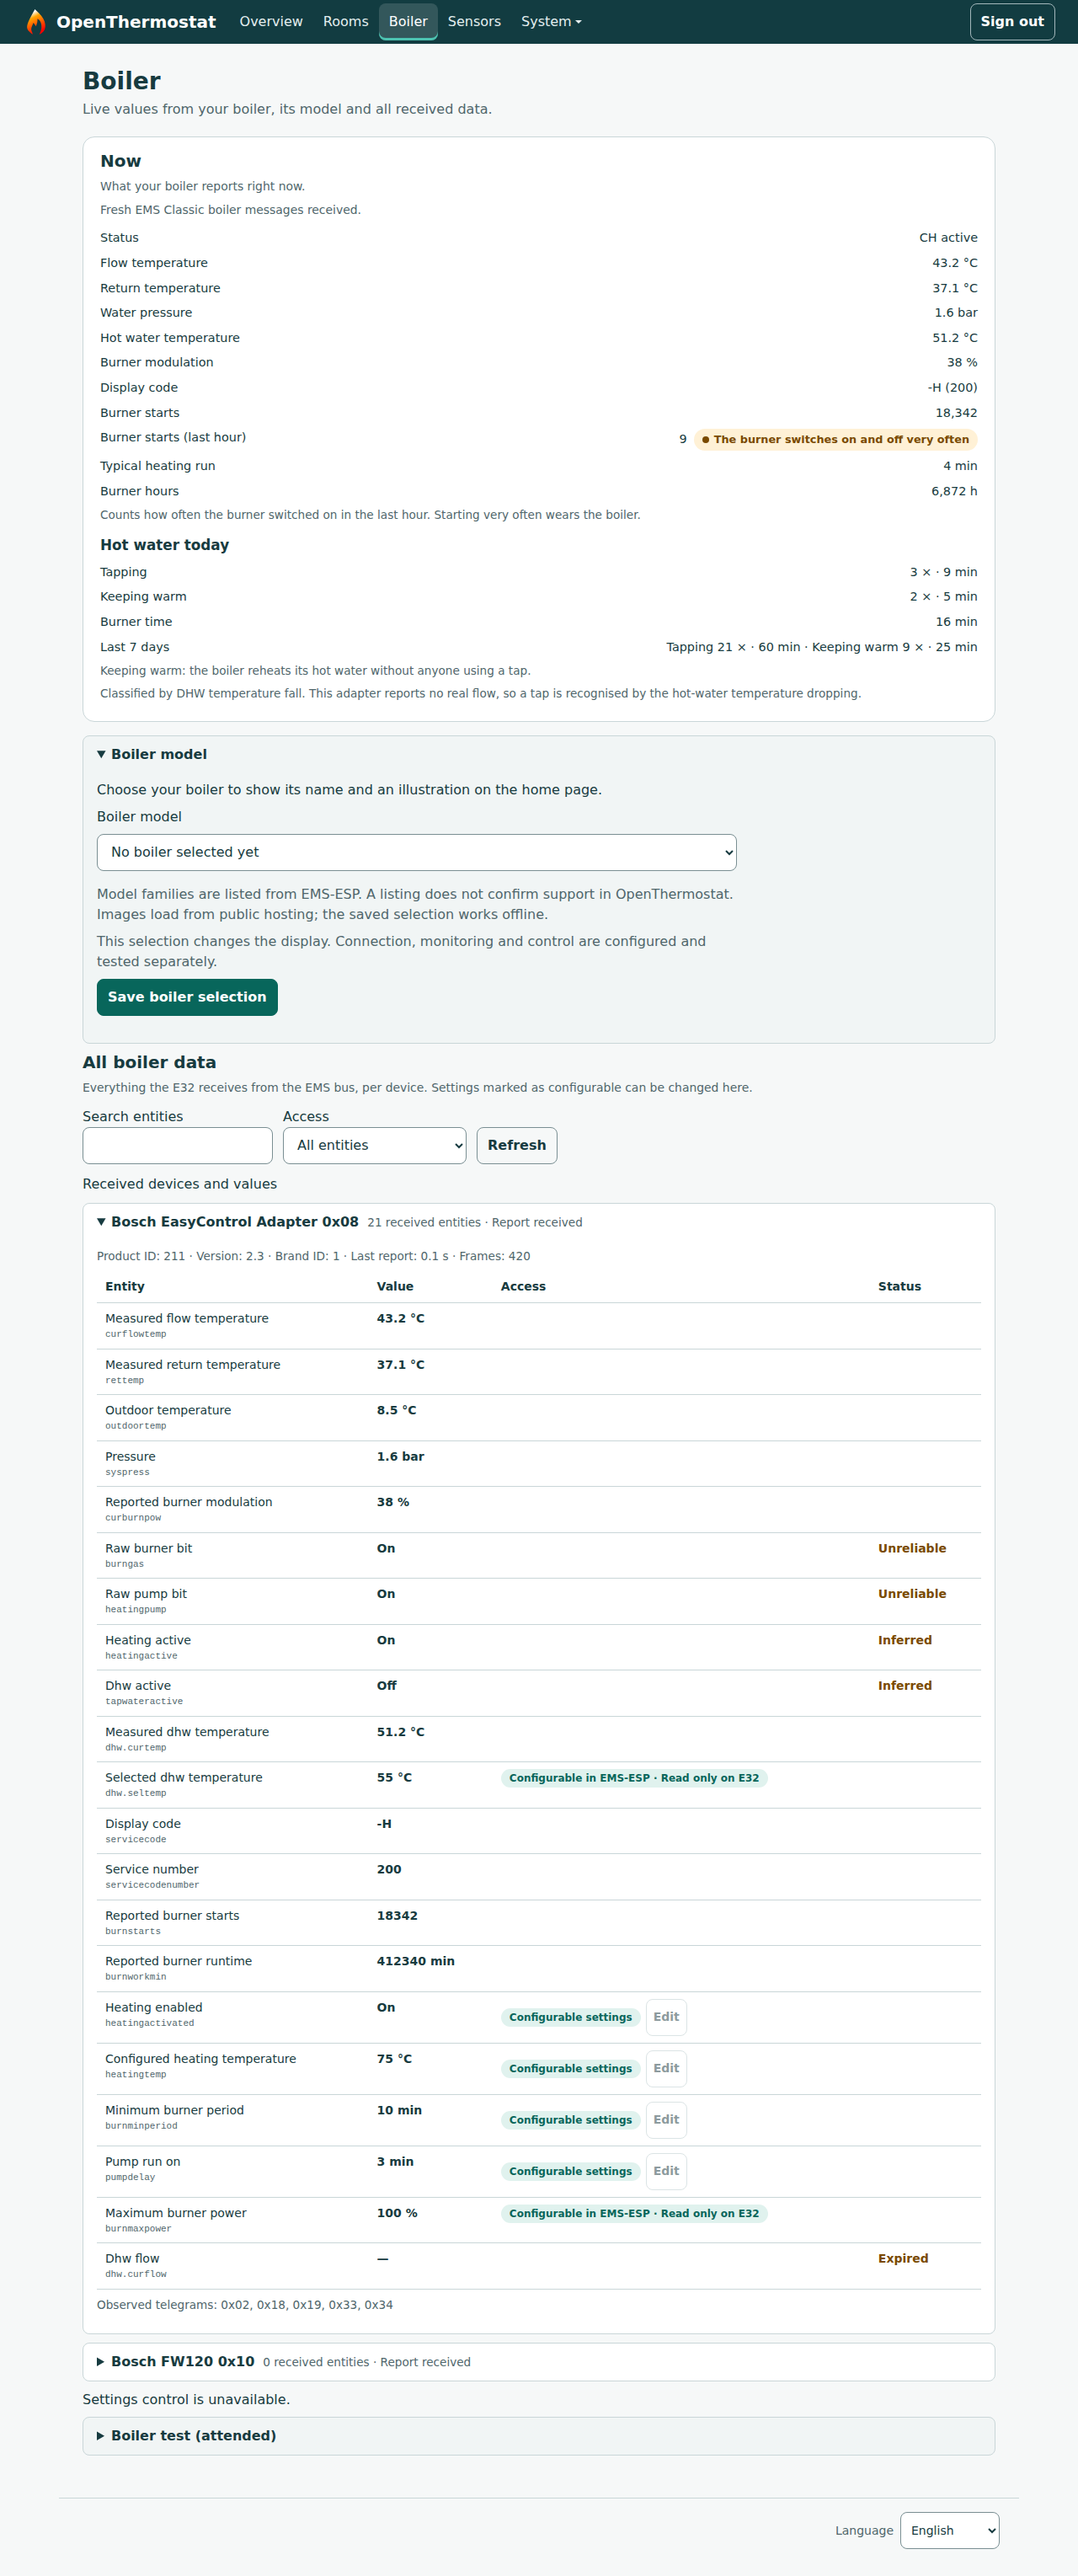
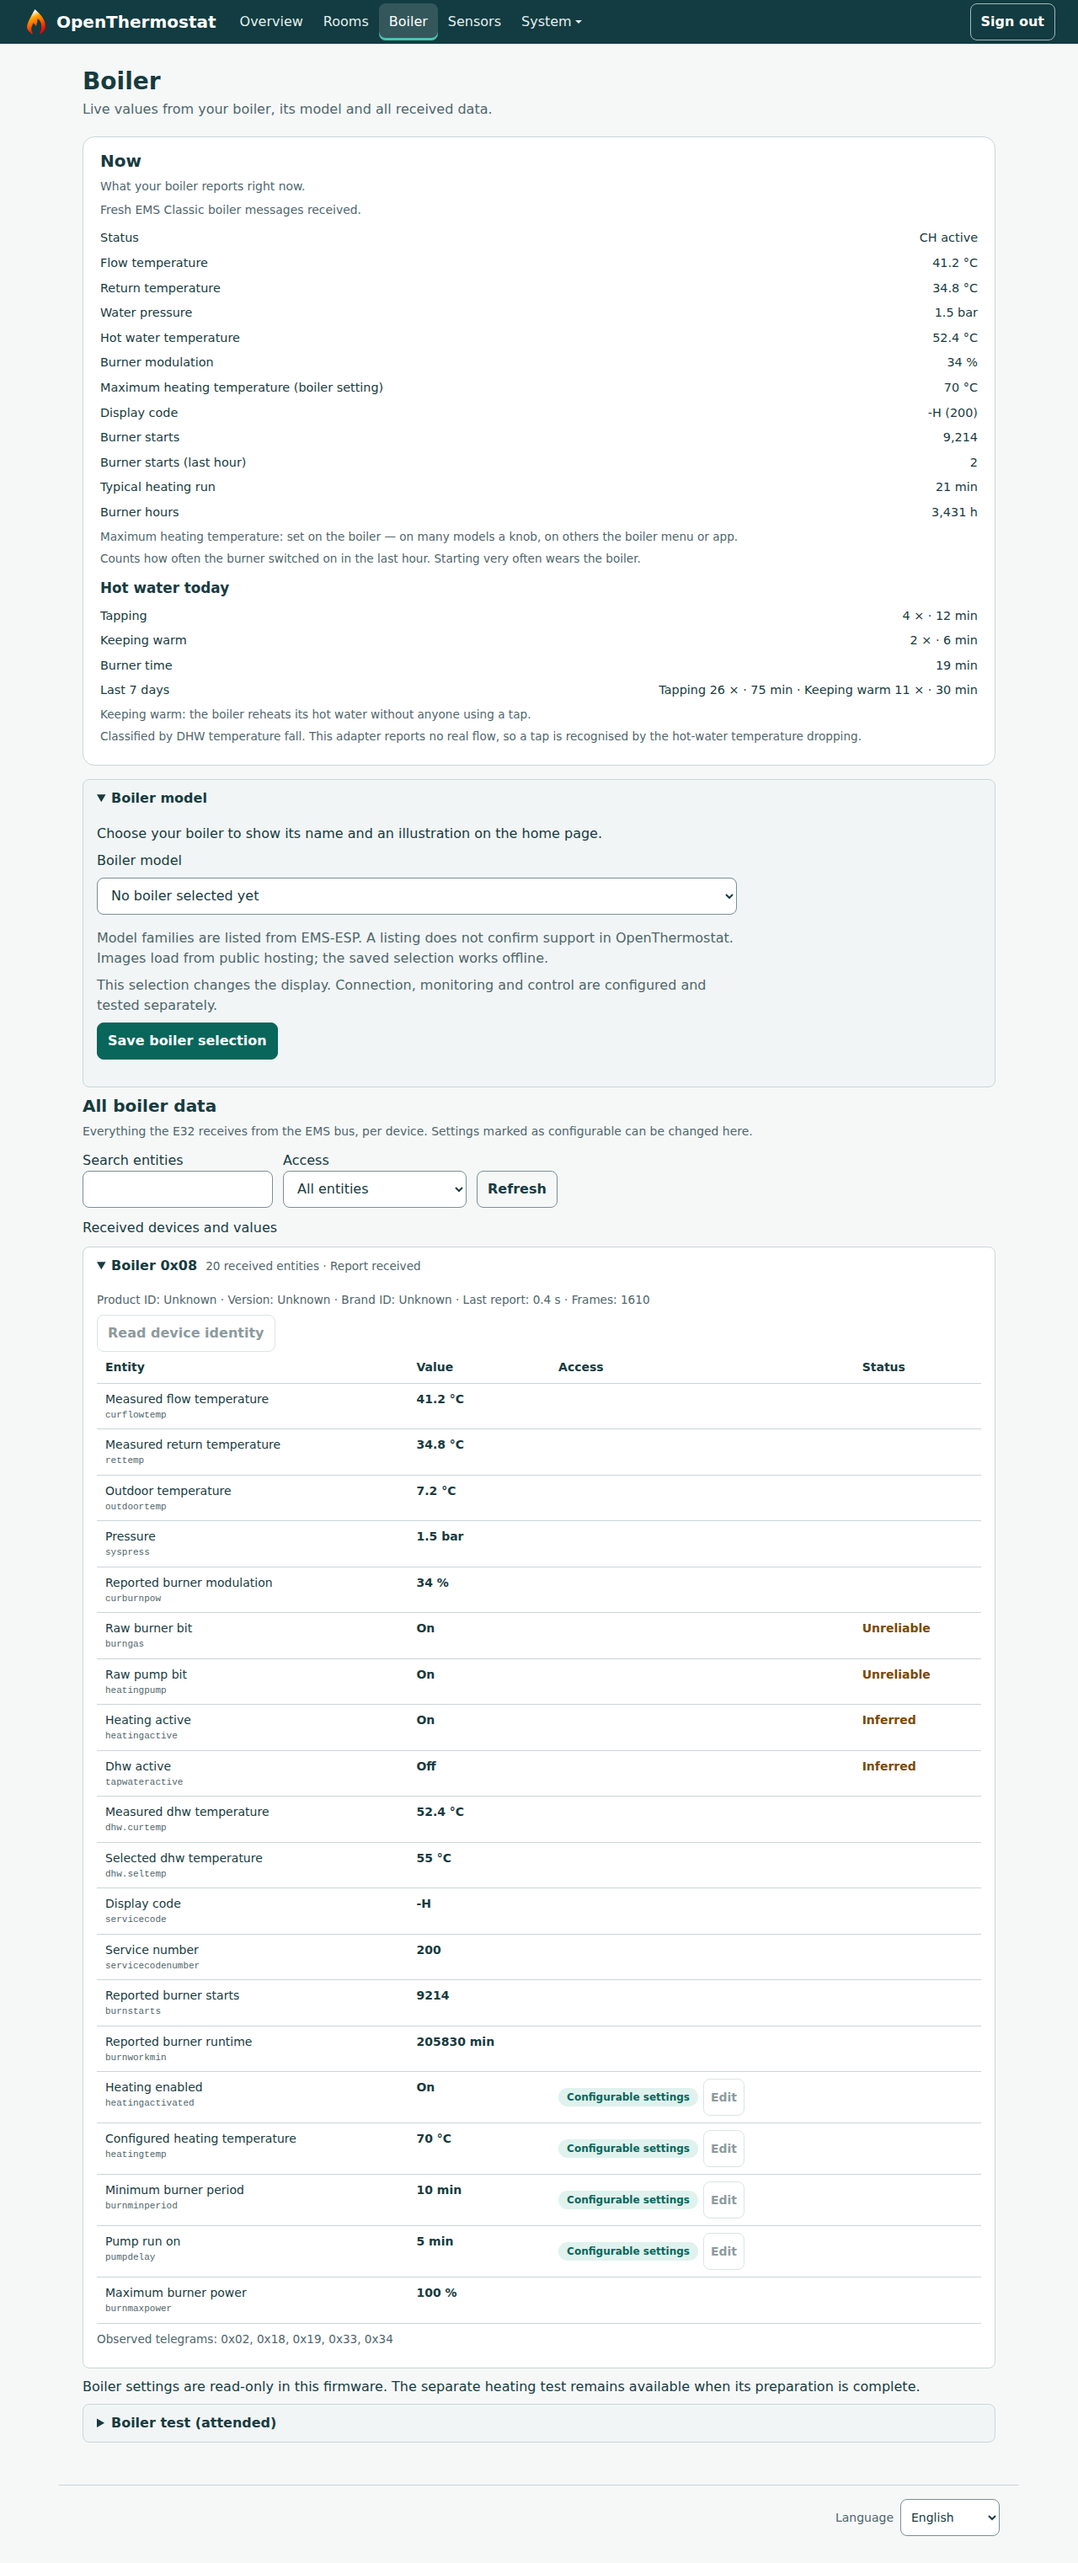
Project page: beta.18 screenshots of the final interface with demonstration data

diff --git a/README.md b/README.md
@@ -286,12 +286,32 @@ project page, user guide and release descriptions are in English.
 ## Screenshots
 
 <details>
+<summary>E32 Overview</summary>
+
+![E32 Overview with rooms, trend lines, the calculated boiler request and boiler values](docs/img/screenshots/e32-overview-beta18.png)
+
+Demonstration with sample data, not a live capture.
+Two rooms ask for heat; in shadow mode your thermostat keeps controlling the boiler.
+
+</details>
+
+<details>
+<summary>E32 Overview on a phone</summary>
+
+![E32 Overview at phone width](docs/img/screenshots/e32-overview-phone-beta18.png)
+
+Demonstration with sample data, not a live capture.
+
+</details>
+
+<details>
 <summary>E32 Rooms page (light)</summary>
 
-![E32 Rooms page with room cards, boiler request and shadow-mode notice](docs/img/screenshots/e32-rooms-beta18.png)
+![E32 Rooms page with read-only room cards, the Edit here anyway option and the shadow-mode comparison](docs/img/screenshots/e32-rooms-beta18.png)
 
-Demonstration with sample data, not a live capture. Rooms are shown read-only
-because they are managed in Home Assistant.
+Demonstration with sample data, not a live capture. Rooms are shown
+read-only because they are managed in Home Assistant; "Edit here anyway" unlocks
+editing on the E32. The flow limits show the maximum set on the boiler.
 
 </details>
 
@@ -305,18 +325,9 @@ Demonstration with sample data, not a live capture.
 </details>
 
 <details>
-<summary>E32 Overview</summary>
-
-![E32 Overview with heating status, rooms and boiler essentials](docs/img/screenshots/e32-overview-beta18.png)
-
-Demonstration with sample data, not a live capture.
-
-</details>
-
-<details>
 <summary>E32 Boiler page</summary>
 
-![E32 Boiler page with essentials, burner starts and hot water today](docs/img/screenshots/e32-boiler-beta18.png)
+![E32 Boiler page with current values, burner starts, hot water today and all received boiler entities](docs/img/screenshots/e32-boiler-beta18.png)
 
 Demonstration with sample data, not a live capture.
 
@@ -325,7 +336,16 @@ Demonstration with sample data, not a live capture.
 <details>
 <summary>E32 Sensors page</summary>
 
-![E32 Sensors page with paired Bluetooth thermometers](docs/img/screenshots/e32-sensors-beta18.png)
+![E32 Sensors page with nearby and paired Bluetooth thermometers](docs/img/screenshots/e32-sensors-beta18.png)
+
+Demonstration with sample data, not a live capture.
+
+</details>
+
+<details>
+<summary>E32 About page</summary>
+
+![E32 System, About page with the password card](docs/img/screenshots/e32-about-beta18.png)
 
 Demonstration with sample data, not a live capture.
 

diff --git a/docs/img/screenshots/README.md b/docs/img/screenshots/README.md
@@ -2,10 +2,18 @@
 
 Images used on the GitHub project page.
 
-- **Beta.18 (29 October 2026):** `e32-rooms-beta18.png`, `e32-rooms-dark-beta18.png`,
-  `e32-overview-beta18.png`, `e32-boiler-beta18.png` and `e32-sensors-beta18.png` show the
-  shipped E32 web interface rendered locally with fictitious demonstration data (mocked
-  HTTP responses). They are not captures of a live device.
+- **Beta.18 (29 October 2026):** the shipped E32 beta.18 web interface, rendered locally
+  in headless Chromium with fictitious demonstration data (mocked HTTP responses). They are
+  not captures of a live device and contain no data from a real installation.
+  - `e32-overview-beta18.png`: Overview with rooms, trend lines, boiler request and boiler
+    values; `e32-overview-phone-beta18.png` shows the same page at phone width (390 px).
+  - `e32-rooms-beta18.png` and `e32-rooms-dark-beta18.png`: Rooms page in the light and dark
+    theme, read-only because the rooms are managed in Home Assistant, with the
+    "Edit here anyway" option, the shadow-mode comparison and the boiler flow limits.
+  - `e32-boiler-beta18.png`: Boiler page with current values, burner starts, hot water today
+    and all received boiler entities (setting changes are read-only in this firmware).
+  - `e32-sensors-beta18.png`: Sensors page with nearby and paired Bluetooth thermometers.
+  - `e32-about-beta18.png`: System → About with the password card.
 - `ha-room-dev24.png`: the shipped Home Assistant frontend rendered locally with example
   data and an explicit demonstration label; not a live HA capture and no proof of physical
   control.
